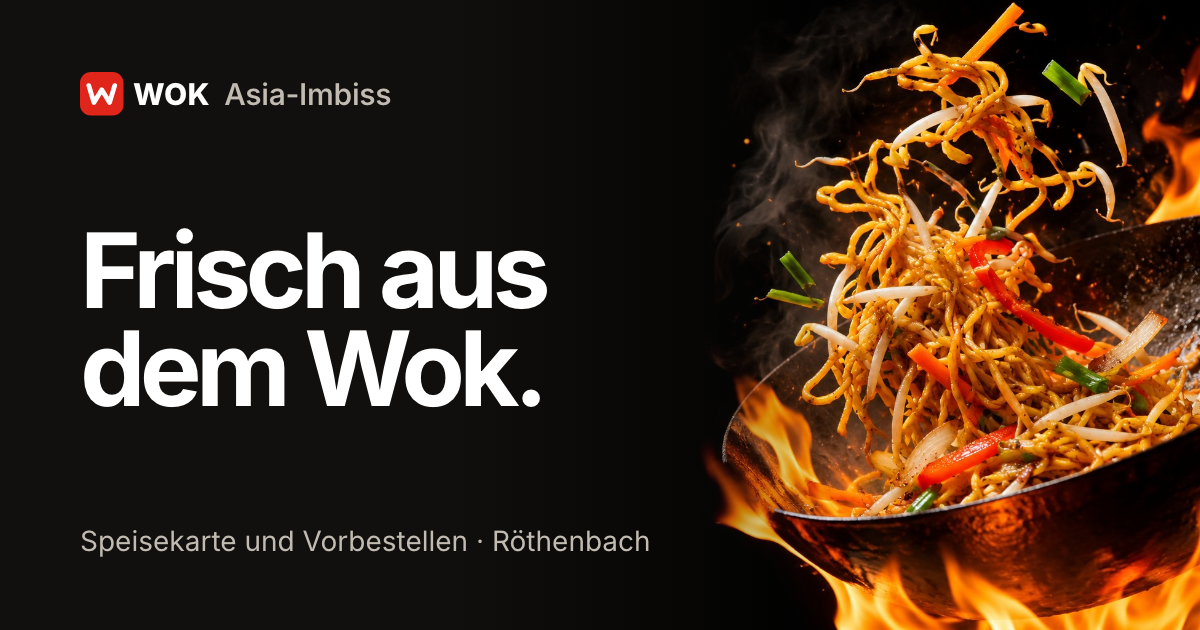
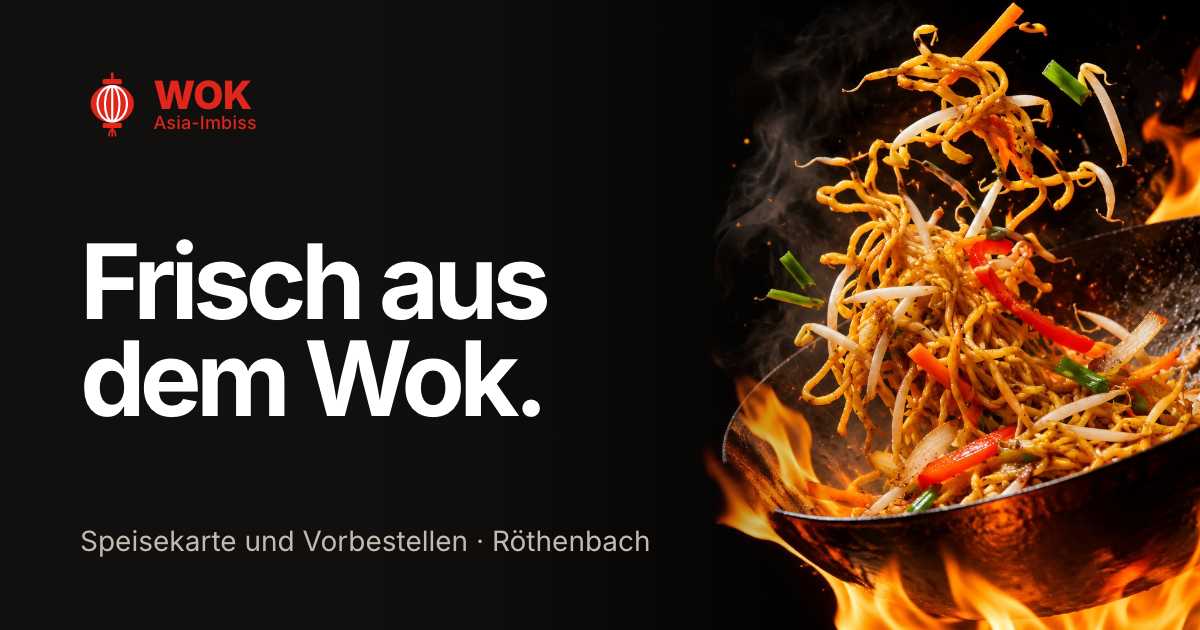
Website aktualisiert (Quelle 6286fc3)

Changed region(s): [[0.0617, 0.3619, 0.4625, 0.6635], [0.0617, 0.0905, 0.3392, 0.2111]]

diff --git a/index.html b/index.html
@@ -13,7 +13,7 @@
 <link rel="apple-touch-icon" href="/apple-touch-icon.png">
 <link rel="preload" href="/fonts/inter-latin.woff2" as="font" type="font/woff2" crossorigin>
 <link rel="preload" as="image" type="image/webp" imagesrcset="/img/hero-480.7e2e9b.webp 480w, /img/hero-960.7e2e9b.webp 960w, /img/hero-1536.7e2e9b.webp 1536w" imagesizes="100vw" fetchpriority="high">
-<link rel="stylesheet" href="/styles.css?v=b0c5729e">
+<link rel="stylesheet" href="/styles.css?v=b110ccd6">
 <script>document.documentElement.classList.add("js")</script>
 <meta property="og:type" content="website">
 <meta property="og:locale" content="de_DE">
@@ -33,7 +33,7 @@
 
 <header class="head">
   <div class="wrap">
-    <a class="brand" href="/" aria-label="WOK Asia-Imbiss, zur Startseite"><svg viewBox="0 0 64 64" aria-hidden="true"><rect width="64" height="64" rx="16" fill="#e0251b"/><path d="M13 20l7.5 25L32 26l11.5 19L51 20" fill="none" stroke="#fff" stroke-width="7" stroke-linecap="round" stroke-linejoin="round"/></svg><span><b>WOK</b> Asia-Imbiss</span></a>
+    <a class="brand" href="/" aria-label="WOK Asia-Imbiss, zur Startseite"><svg viewBox="0 0 64 64" aria-hidden="true"><path d="M32 1.5v6" stroke="#e0251b" stroke-width="2.6" stroke-linecap="round"/><rect x="22.5" y="7" width="19" height="5.2" rx="1.6" fill="#e0251b"/><ellipse cx="32" cy="31.6" rx="21.5" ry="18.8" fill="#e0251b"/><g fill="none" stroke="#fff" stroke-width="2.1"><ellipse cx="32" cy="31.6" rx="7.2" ry="17.2"/><ellipse cx="32" cy="31.6" rx="14.6" ry="17.6"/><path d="M32 14.2v34.8"/></g><rect x="22.5" y="50.4" width="19" height="5.2" rx="1.6" fill="#e0251b"/><circle cx="32" cy="57.6" r="2.1" fill="#e0251b"/><g stroke="#e0251b" stroke-width="1.7" stroke-linecap="round"><path d="M32 59v4.4M29.6 58.8l-.9 4.4M34.4 58.8l.9 4.4"/></g></svg><span class="logo-t"><b>WOK</b><span>Asia-Imbiss</span></span></a>
     <nav class="nav" aria-label="Hauptnavigation">
       <a href="/speisekarte/">Speisekarte</a>
       <a class="nav-wide" href="/#besuch">Öffnungszeiten</a><a class="nav-wide" href="/#catering">Catering</a>
@@ -156,7 +156,7 @@
 <footer class="foot">
   <div class="wrap">
     <div>
-      <a class="brand" href="/"><svg viewBox="0 0 64 64" aria-hidden="true"><rect width="64" height="64" rx="16" fill="#e0251b"/><path d="M13 20l7.5 25L32 26l11.5 19L51 20" fill="none" stroke="#fff" stroke-width="7" stroke-linecap="round" stroke-linejoin="round"/></svg><span><b>WOK</b> Asia-Imbiss</span></a>
+      <a class="brand" href="/"><svg viewBox="0 0 64 64" aria-hidden="true"><path d="M32 1.5v6" stroke="#e0251b" stroke-width="2.6" stroke-linecap="round"/><rect x="22.5" y="7" width="19" height="5.2" rx="1.6" fill="#e0251b"/><ellipse cx="32" cy="31.6" rx="21.5" ry="18.8" fill="#e0251b"/><g fill="none" stroke="#fff" stroke-width="2.1"><ellipse cx="32" cy="31.6" rx="7.2" ry="17.2"/><ellipse cx="32" cy="31.6" rx="14.6" ry="17.6"/><path d="M32 14.2v34.8"/></g><rect x="22.5" y="50.4" width="19" height="5.2" rx="1.6" fill="#e0251b"/><circle cx="32" cy="57.6" r="2.1" fill="#e0251b"/><g stroke="#e0251b" stroke-width="1.7" stroke-linecap="round"><path d="M32 59v4.4M29.6 58.8l-.9 4.4M34.4 58.8l.9 4.4"/></g></svg><span class="logo-t"><b>WOK</b><span>Asia-Imbiss</span></span></a>
       <p>Asiatische Spezialitäten, immer frisch zubereitet.<br>Alle Gerichte auch zum Mitnehmen. Catering auf Anfrage.</p>
     </div>
     <div>

diff --git a/404.html b/404.html
@@ -13,7 +13,7 @@
 <link rel="apple-touch-icon" href="/apple-touch-icon.png">
 <link rel="preload" href="/fonts/inter-latin.woff2" as="font" type="font/woff2" crossorigin>
 
-<link rel="stylesheet" href="/styles.css?v=b0c5729e">
+<link rel="stylesheet" href="/styles.css?v=b110ccd6">
 <script>document.documentElement.classList.add("js")</script>
 <meta property="og:type" content="website">
 <meta property="og:locale" content="de_DE">
@@ -33,7 +33,7 @@
 
 <header class="head">
   <div class="wrap">
-    <a class="brand" href="/" aria-label="WOK Asia-Imbiss, zur Startseite"><svg viewBox="0 0 64 64" aria-hidden="true"><rect width="64" height="64" rx="16" fill="#e0251b"/><path d="M13 20l7.5 25L32 26l11.5 19L51 20" fill="none" stroke="#fff" stroke-width="7" stroke-linecap="round" stroke-linejoin="round"/></svg><span><b>WOK</b> Asia-Imbiss</span></a>
+    <a class="brand" href="/" aria-label="WOK Asia-Imbiss, zur Startseite"><svg viewBox="0 0 64 64" aria-hidden="true"><path d="M32 1.5v6" stroke="#e0251b" stroke-width="2.6" stroke-linecap="round"/><rect x="22.5" y="7" width="19" height="5.2" rx="1.6" fill="#e0251b"/><ellipse cx="32" cy="31.6" rx="21.5" ry="18.8" fill="#e0251b"/><g fill="none" stroke="#fff" stroke-width="2.1"><ellipse cx="32" cy="31.6" rx="7.2" ry="17.2"/><ellipse cx="32" cy="31.6" rx="14.6" ry="17.6"/><path d="M32 14.2v34.8"/></g><rect x="22.5" y="50.4" width="19" height="5.2" rx="1.6" fill="#e0251b"/><circle cx="32" cy="57.6" r="2.1" fill="#e0251b"/><g stroke="#e0251b" stroke-width="1.7" stroke-linecap="round"><path d="M32 59v4.4M29.6 58.8l-.9 4.4M34.4 58.8l.9 4.4"/></g></svg><span class="logo-t"><b>WOK</b><span>Asia-Imbiss</span></span></a>
     <nav class="nav" aria-label="Hauptnavigation">
       <a href="/speisekarte/">Speisekarte</a>
       <a class="nav-wide" href="/#besuch">Öffnungszeiten</a><a class="nav-wide" href="/#catering">Catering</a>
@@ -59,7 +59,7 @@
 <footer class="foot">
   <div class="wrap">
     <div>
-      <a class="brand" href="/"><svg viewBox="0 0 64 64" aria-hidden="true"><rect width="64" height="64" rx="16" fill="#e0251b"/><path d="M13 20l7.5 25L32 26l11.5 19L51 20" fill="none" stroke="#fff" stroke-width="7" stroke-linecap="round" stroke-linejoin="round"/></svg><span><b>WOK</b> Asia-Imbiss</span></a>
+      <a class="brand" href="/"><svg viewBox="0 0 64 64" aria-hidden="true"><path d="M32 1.5v6" stroke="#e0251b" stroke-width="2.6" stroke-linecap="round"/><rect x="22.5" y="7" width="19" height="5.2" rx="1.6" fill="#e0251b"/><ellipse cx="32" cy="31.6" rx="21.5" ry="18.8" fill="#e0251b"/><g fill="none" stroke="#fff" stroke-width="2.1"><ellipse cx="32" cy="31.6" rx="7.2" ry="17.2"/><ellipse cx="32" cy="31.6" rx="14.6" ry="17.6"/><path d="M32 14.2v34.8"/></g><rect x="22.5" y="50.4" width="19" height="5.2" rx="1.6" fill="#e0251b"/><circle cx="32" cy="57.6" r="2.1" fill="#e0251b"/><g stroke="#e0251b" stroke-width="1.7" stroke-linecap="round"><path d="M32 59v4.4M29.6 58.8l-.9 4.4M34.4 58.8l.9 4.4"/></g></svg><span class="logo-t"><b>WOK</b><span>Asia-Imbiss</span></span></a>
       <p>Asiatische Spezialitäten, immer frisch zubereitet.<br>Alle Gerichte auch zum Mitnehmen. Catering auf Anfrage.</p>
     </div>
     <div>

diff --git a/datenschutz/index.html b/datenschutz/index.html
@@ -13,7 +13,7 @@
 <link rel="apple-touch-icon" href="/apple-touch-icon.png">
 <link rel="preload" href="/fonts/inter-latin.woff2" as="font" type="font/woff2" crossorigin>
 
-<link rel="stylesheet" href="/styles.css?v=b0c5729e">
+<link rel="stylesheet" href="/styles.css?v=b110ccd6">
 <script>document.documentElement.classList.add("js")</script>
 <meta property="og:type" content="website">
 <meta property="og:locale" content="de_DE">
@@ -33,7 +33,7 @@
 
 <header class="head">
   <div class="wrap">
-    <a class="brand" href="/" aria-label="WOK Asia-Imbiss, zur Startseite"><svg viewBox="0 0 64 64" aria-hidden="true"><rect width="64" height="64" rx="16" fill="#e0251b"/><path d="M13 20l7.5 25L32 26l11.5 19L51 20" fill="none" stroke="#fff" stroke-width="7" stroke-linecap="round" stroke-linejoin="round"/></svg><span><b>WOK</b> Asia-Imbiss</span></a>
+    <a class="brand" href="/" aria-label="WOK Asia-Imbiss, zur Startseite"><svg viewBox="0 0 64 64" aria-hidden="true"><path d="M32 1.5v6" stroke="#e0251b" stroke-width="2.6" stroke-linecap="round"/><rect x="22.5" y="7" width="19" height="5.2" rx="1.6" fill="#e0251b"/><ellipse cx="32" cy="31.6" rx="21.5" ry="18.8" fill="#e0251b"/><g fill="none" stroke="#fff" stroke-width="2.1"><ellipse cx="32" cy="31.6" rx="7.2" ry="17.2"/><ellipse cx="32" cy="31.6" rx="14.6" ry="17.6"/><path d="M32 14.2v34.8"/></g><rect x="22.5" y="50.4" width="19" height="5.2" rx="1.6" fill="#e0251b"/><circle cx="32" cy="57.6" r="2.1" fill="#e0251b"/><g stroke="#e0251b" stroke-width="1.7" stroke-linecap="round"><path d="M32 59v4.4M29.6 58.8l-.9 4.4M34.4 58.8l.9 4.4"/></g></svg><span class="logo-t"><b>WOK</b><span>Asia-Imbiss</span></span></a>
     <nav class="nav" aria-label="Hauptnavigation">
       <a href="/speisekarte/">Speisekarte</a>
       <a class="nav-wide" href="/#besuch">Öffnungszeiten</a><a class="nav-wide" href="/#catering">Catering</a>
@@ -75,7 +75,7 @@
 <footer class="foot">
   <div class="wrap">
     <div>
-      <a class="brand" href="/"><svg viewBox="0 0 64 64" aria-hidden="true"><rect width="64" height="64" rx="16" fill="#e0251b"/><path d="M13 20l7.5 25L32 26l11.5 19L51 20" fill="none" stroke="#fff" stroke-width="7" stroke-linecap="round" stroke-linejoin="round"/></svg><span><b>WOK</b> Asia-Imbiss</span></a>
+      <a class="brand" href="/"><svg viewBox="0 0 64 64" aria-hidden="true"><path d="M32 1.5v6" stroke="#e0251b" stroke-width="2.6" stroke-linecap="round"/><rect x="22.5" y="7" width="19" height="5.2" rx="1.6" fill="#e0251b"/><ellipse cx="32" cy="31.6" rx="21.5" ry="18.8" fill="#e0251b"/><g fill="none" stroke="#fff" stroke-width="2.1"><ellipse cx="32" cy="31.6" rx="7.2" ry="17.2"/><ellipse cx="32" cy="31.6" rx="14.6" ry="17.6"/><path d="M32 14.2v34.8"/></g><rect x="22.5" y="50.4" width="19" height="5.2" rx="1.6" fill="#e0251b"/><circle cx="32" cy="57.6" r="2.1" fill="#e0251b"/><g stroke="#e0251b" stroke-width="1.7" stroke-linecap="round"><path d="M32 59v4.4M29.6 58.8l-.9 4.4M34.4 58.8l.9 4.4"/></g></svg><span class="logo-t"><b>WOK</b><span>Asia-Imbiss</span></span></a>
       <p>Asiatische Spezialitäten, immer frisch zubereitet.<br>Alle Gerichte auch zum Mitnehmen. Catering auf Anfrage.</p>
     </div>
     <div>

diff --git a/impressum/index.html b/impressum/index.html
@@ -13,7 +13,7 @@
 <link rel="apple-touch-icon" href="/apple-touch-icon.png">
 <link rel="preload" href="/fonts/inter-latin.woff2" as="font" type="font/woff2" crossorigin>
 
-<link rel="stylesheet" href="/styles.css?v=b0c5729e">
+<link rel="stylesheet" href="/styles.css?v=b110ccd6">
 <script>document.documentElement.classList.add("js")</script>
 <meta property="og:type" content="website">
 <meta property="og:locale" content="de_DE">
@@ -33,7 +33,7 @@
 
 <header class="head">
   <div class="wrap">
-    <a class="brand" href="/" aria-label="WOK Asia-Imbiss, zur Startseite"><svg viewBox="0 0 64 64" aria-hidden="true"><rect width="64" height="64" rx="16" fill="#e0251b"/><path d="M13 20l7.5 25L32 26l11.5 19L51 20" fill="none" stroke="#fff" stroke-width="7" stroke-linecap="round" stroke-linejoin="round"/></svg><span><b>WOK</b> Asia-Imbiss</span></a>
+    <a class="brand" href="/" aria-label="WOK Asia-Imbiss, zur Startseite"><svg viewBox="0 0 64 64" aria-hidden="true"><path d="M32 1.5v6" stroke="#e0251b" stroke-width="2.6" stroke-linecap="round"/><rect x="22.5" y="7" width="19" height="5.2" rx="1.6" fill="#e0251b"/><ellipse cx="32" cy="31.6" rx="21.5" ry="18.8" fill="#e0251b"/><g fill="none" stroke="#fff" stroke-width="2.1"><ellipse cx="32" cy="31.6" rx="7.2" ry="17.2"/><ellipse cx="32" cy="31.6" rx="14.6" ry="17.6"/><path d="M32 14.2v34.8"/></g><rect x="22.5" y="50.4" width="19" height="5.2" rx="1.6" fill="#e0251b"/><circle cx="32" cy="57.6" r="2.1" fill="#e0251b"/><g stroke="#e0251b" stroke-width="1.7" stroke-linecap="round"><path d="M32 59v4.4M29.6 58.8l-.9 4.4M34.4 58.8l.9 4.4"/></g></svg><span class="logo-t"><b>WOK</b><span>Asia-Imbiss</span></span></a>
     <nav class="nav" aria-label="Hauptnavigation">
       <a href="/speisekarte/">Speisekarte</a>
       <a class="nav-wide" href="/#besuch">Öffnungszeiten</a><a class="nav-wide" href="/#catering">Catering</a>
@@ -64,7 +64,7 @@
 <footer class="foot">
   <div class="wrap">
     <div>
-      <a class="brand" href="/"><svg viewBox="0 0 64 64" aria-hidden="true"><rect width="64" height="64" rx="16" fill="#e0251b"/><path d="M13 20l7.5 25L32 26l11.5 19L51 20" fill="none" stroke="#fff" stroke-width="7" stroke-linecap="round" stroke-linejoin="round"/></svg><span><b>WOK</b> Asia-Imbiss</span></a>
+      <a class="brand" href="/"><svg viewBox="0 0 64 64" aria-hidden="true"><path d="M32 1.5v6" stroke="#e0251b" stroke-width="2.6" stroke-linecap="round"/><rect x="22.5" y="7" width="19" height="5.2" rx="1.6" fill="#e0251b"/><ellipse cx="32" cy="31.6" rx="21.5" ry="18.8" fill="#e0251b"/><g fill="none" stroke="#fff" stroke-width="2.1"><ellipse cx="32" cy="31.6" rx="7.2" ry="17.2"/><ellipse cx="32" cy="31.6" rx="14.6" ry="17.6"/><path d="M32 14.2v34.8"/></g><rect x="22.5" y="50.4" width="19" height="5.2" rx="1.6" fill="#e0251b"/><circle cx="32" cy="57.6" r="2.1" fill="#e0251b"/><g stroke="#e0251b" stroke-width="1.7" stroke-linecap="round"><path d="M32 59v4.4M29.6 58.8l-.9 4.4M34.4 58.8l.9 4.4"/></g></svg><span class="logo-t"><b>WOK</b><span>Asia-Imbiss</span></span></a>
       <p>Asiatische Spezialitäten, immer frisch zubereitet.<br>Alle Gerichte auch zum Mitnehmen. Catering auf Anfrage.</p>
     </div>
     <div>

diff --git a/speisekarte/index.html b/speisekarte/index.html
@@ -13,7 +13,7 @@
 <link rel="apple-touch-icon" href="/apple-touch-icon.png">
 <link rel="preload" href="/fonts/inter-latin.woff2" as="font" type="font/woff2" crossorigin>
 
-<link rel="stylesheet" href="/styles.css?v=b0c5729e">
+<link rel="stylesheet" href="/styles.css?v=b110ccd6">
 <script>document.documentElement.classList.add("js")</script>
 <meta property="og:type" content="website">
 <meta property="og:locale" content="de_DE">
@@ -33,7 +33,7 @@
 
 <header class="head">
   <div class="wrap">
-    <a class="brand" href="/" aria-label="WOK Asia-Imbiss, zur Startseite"><svg viewBox="0 0 64 64" aria-hidden="true"><rect width="64" height="64" rx="16" fill="#e0251b"/><path d="M13 20l7.5 25L32 26l11.5 19L51 20" fill="none" stroke="#fff" stroke-width="7" stroke-linecap="round" stroke-linejoin="round"/></svg><span><b>WOK</b> Asia-Imbiss</span></a>
+    <a class="brand" href="/" aria-label="WOK Asia-Imbiss, zur Startseite"><svg viewBox="0 0 64 64" aria-hidden="true"><path d="M32 1.5v6" stroke="#e0251b" stroke-width="2.6" stroke-linecap="round"/><rect x="22.5" y="7" width="19" height="5.2" rx="1.6" fill="#e0251b"/><ellipse cx="32" cy="31.6" rx="21.5" ry="18.8" fill="#e0251b"/><g fill="none" stroke="#fff" stroke-width="2.1"><ellipse cx="32" cy="31.6" rx="7.2" ry="17.2"/><ellipse cx="32" cy="31.6" rx="14.6" ry="17.6"/><path d="M32 14.2v34.8"/></g><rect x="22.5" y="50.4" width="19" height="5.2" rx="1.6" fill="#e0251b"/><circle cx="32" cy="57.6" r="2.1" fill="#e0251b"/><g stroke="#e0251b" stroke-width="1.7" stroke-linecap="round"><path d="M32 59v4.4M29.6 58.8l-.9 4.4M34.4 58.8l.9 4.4"/></g></svg><span class="logo-t"><b>WOK</b><span>Asia-Imbiss</span></span></a>
     <nav class="nav" aria-label="Hauptnavigation">
       <a href="/speisekarte/" aria-current="page">Speisekarte</a>
       
@@ -865,7 +865,7 @@
 <footer class="foot">
   <div class="wrap">
     <div>
-      <a class="brand" href="/"><svg viewBox="0 0 64 64" aria-hidden="true"><rect width="64" height="64" rx="16" fill="#e0251b"/><path d="M13 20l7.5 25L32 26l11.5 19L51 20" fill="none" stroke="#fff" stroke-width="7" stroke-linecap="round" stroke-linejoin="round"/></svg><span><b>WOK</b> Asia-Imbiss</span></a>
+      <a class="brand" href="/"><svg viewBox="0 0 64 64" aria-hidden="true"><path d="M32 1.5v6" stroke="#e0251b" stroke-width="2.6" stroke-linecap="round"/><rect x="22.5" y="7" width="19" height="5.2" rx="1.6" fill="#e0251b"/><ellipse cx="32" cy="31.6" rx="21.5" ry="18.8" fill="#e0251b"/><g fill="none" stroke="#fff" stroke-width="2.1"><ellipse cx="32" cy="31.6" rx="7.2" ry="17.2"/><ellipse cx="32" cy="31.6" rx="14.6" ry="17.6"/><path d="M32 14.2v34.8"/></g><rect x="22.5" y="50.4" width="19" height="5.2" rx="1.6" fill="#e0251b"/><circle cx="32" cy="57.6" r="2.1" fill="#e0251b"/><g stroke="#e0251b" stroke-width="1.7" stroke-linecap="round"><path d="M32 59v4.4M29.6 58.8l-.9 4.4M34.4 58.8l.9 4.4"/></g></svg><span class="logo-t"><b>WOK</b><span>Asia-Imbiss</span></span></a>
       <p>Asiatische Spezialitäten, immer frisch zubereitet.<br>Alle Gerichte auch zum Mitnehmen. Catering auf Anfrage.</p>
     </div>
     <div>

diff --git a/styles.css b/styles.css
@@ -78,10 +78,11 @@ p { margin: 0; }
 
 .head { position: relative; z-index: 3; }
 .head .wrap { display: flex; align-items: center; justify-content: space-between; gap: 12px; min-height: 72px; }
-.brand { display: inline-flex; align-items: center; gap: 10px; text-decoration: none; white-space: nowrap; }
-.brand svg { width: 34px; height: 34px; flex: none; }
-.brand span { font-size: 17px; font-weight: 550; letter-spacing: -0.01em; color: var(--on-dark-2); }
-.brand b { color: var(--on-dark); font-weight: 800; letter-spacing: 0.01em; margin-right: 3px; }
+.brand { display: inline-flex; align-items: center; gap: 9px; text-decoration: none; white-space: nowrap; color: var(--accent); }
+.brand svg { width: 44px; height: 44px; flex: none; }
+.logo-t { display: flex; flex-direction: column; line-height: 0.86; }
+.logo-t b { font-size: 27px; font-weight: 850; letter-spacing: -0.01em; }
+.logo-t span { font-size: 12.5px; font-weight: 500; letter-spacing: 0.01em; margin-top: 3px; }
 .nav { display: flex; align-items: center; gap: 2px; white-space: nowrap; hyphens: manual; }
 .nav a:not(.btn) {
   display: inline-flex; align-items: center; min-height: 44px; padding: 0 12px; border-radius: 999px;
